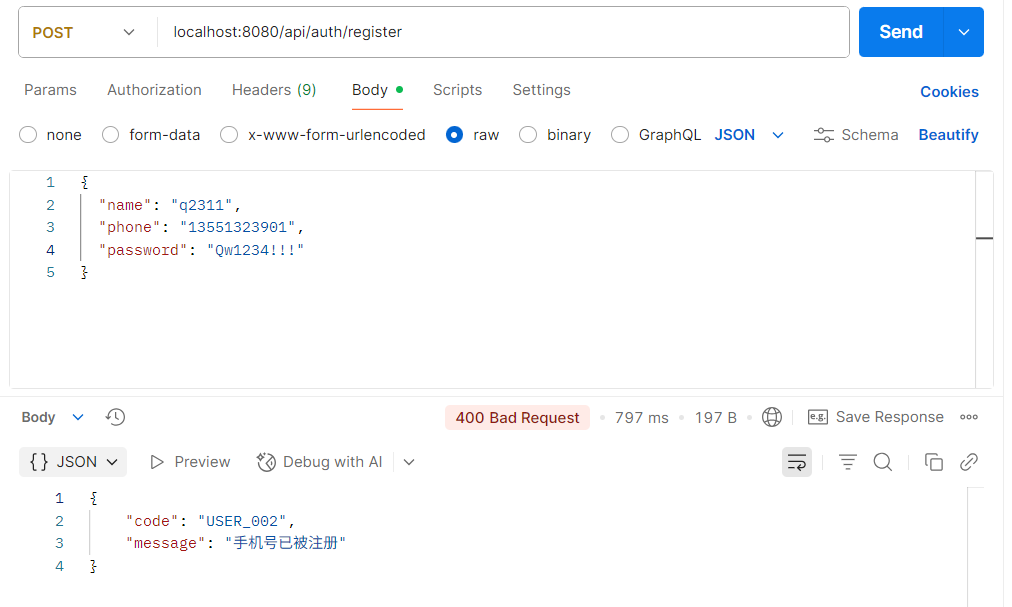
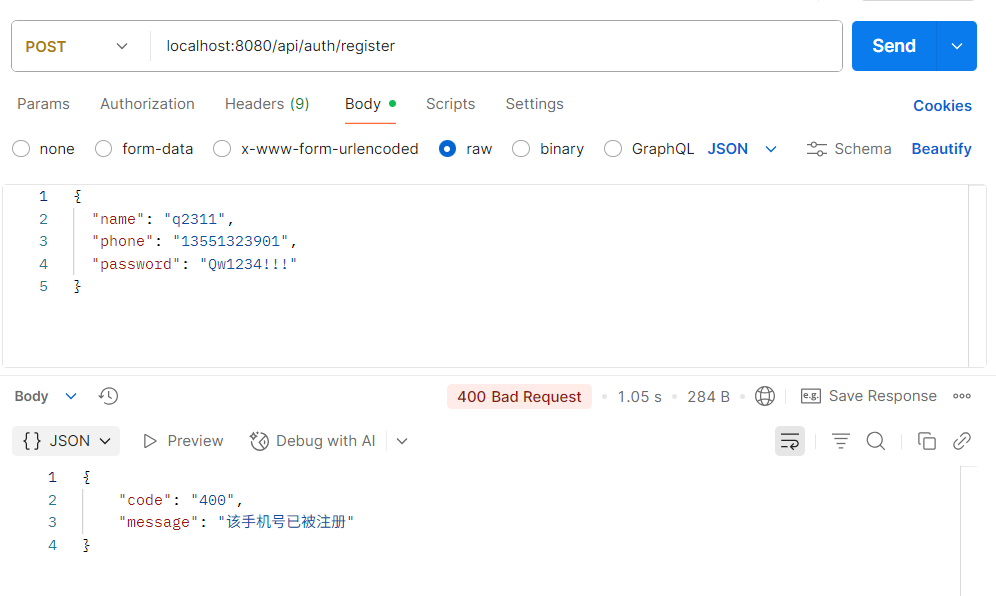
搜索功能

diff --git a/project/backend/personal-loan/src/main/resources/JS/login.js b/project/backend/personal-loan/src/main/resources/JS/login.js
@@ -183,6 +183,7 @@ async function handlePasswordLogin(e) {
         showLoading('password', true) // 显示加载状态
         // 调用登录接口，传递验证后的formData
         const result = await API_CLIENT.login(formData.phone, formData.password)
+        console.log("------------表单提交事件触发了！");
         handleLoginSuccess(result, formData.phone)
     } catch (error) {
         console.error('密码登录失败:', error)

diff --git a/project/backend/personal-loan/src/main/java/com/example/personal_loan/service/impl/UserServiceImpl.java b/project/backend/personal-loan/src/main/java/com/example/personal_loan/service/impl/UserServiceImpl.java
@@ -14,10 +14,10 @@ import com.example.personal_loan.controller.dto.RegisterRequest;
 import com.example.personal_loan.controller.dto.RegisterResponse;
 import com.example.personal_loan.dao.BlackListMapper;
 import com.example.personal_loan.dao.UserMapper;
+import com.example.personal_loan.dto.UserSearchDto;
 import com.example.personal_loan.entity.BlackUser;
 import com.example.personal_loan.entity.User;
 import com.example.personal_loan.exception.BusinessException;
-import com.example.personal_loan.exception.ErrorCode;
 import com.example.personal_loan.exception.InvalidCredentialsException;
 import com.example.personal_loan.service.UserService;
 import com.example.personal_loan.utils.JwtUtil;
@@ -72,11 +72,11 @@ public class UserServiceImpl implements UserService {
     public User addUser(User user){
         
         if (userMapper.findByPhone(user.getPhone()) != null) {
-            throw new BusinessException(ErrorCode.PHONE_EXISTS);
+            throw new BusinessException("400","该手机号已被注册");
         }
        
         if (userMapper.findByIdCard(user.getIdCard()) != null) {
-            throw new BusinessException(ErrorCode.ID_CARD_EXISTS);
+            throw new BusinessException("400","身份证号已被注册");
         }
         
         userMapper.insert(user);
@@ -111,7 +111,7 @@ public class UserServiceImpl implements UserService {
         // 如果手机号被修改，校验唯一性
         if (user.getPhone() != null && !user.getPhone().equals(old.getPhone())) {
             if (userMapper.findByPhone(user.getPhone()) != null) {
-                throw new BusinessException(ErrorCode.PHONE_EXISTS);
+                throw new BusinessException("400","手机号已存在");
             }else{
                 old.setPhone(user.getPhone());   // 更新手机号
             }
@@ -119,7 +119,7 @@ public class UserServiceImpl implements UserService {
         // 校验身份证号唯一性
         if (user.getIdCard() != null && !user.getIdCard().equals(old.getIdCard())) {
             if (userMapper.findByIdCardExcludeId(user.getIdCard(), user.getId()) != 0) {
-                throw new BusinessException(ErrorCode.ID_CARD_EXISTS);
+                throw new BusinessException("400","身份证号已存在");
             }else{
                 old.setIdCard(user.getIdCard());  // 更新身份证号
             }
@@ -143,7 +143,7 @@ public class UserServiceImpl implements UserService {
     public User getUserById(Long id){
         User user = userMapper.findById(id);
         if(user==null){
-            throw new BusinessException(ErrorCode.USER_NOT_FOUND);
+            throw new BusinessException("404","该用户不存在");
         }
         return user;
     }
@@ -154,15 +154,25 @@ public class UserServiceImpl implements UserService {
     }
 
     @Override
+    public List<UserSearchDto> searchUsersByCreditScore(String expr){
+        CreditExpr parsed = parseCreditExpression(expr.trim());
+        if (parsed == null) {
+            throw new BusinessException("400","无效的搜索");
+        }
+
+        return userMapper.selectUsersByCreditScore(parsed.operator, parsed.value);
+    }
+
+    @Override
     public void addToBlackList(Long userId, int blackLevel){
         User user = userMapper.findById(userId);
         if (user == null) {
-            throw new BusinessException("用户不存在");
+            throw new BusinessException("404","用户不存在");
         }
         
         // 检查是否已在黑名单
         if (blacklistMapper.selectByUserId(userId) != null) {
-            throw new BusinessException("用户已在黑名单中");
+            throw new BusinessException("400","用户已在黑名单中");
         }
 
         // 检查level范围 ？
@@ -171,5 +181,39 @@ public class UserServiceImpl implements UserService {
         blackUser.setUserId(userId);
         blackUser.setBlackLevel(blackLevel);
         blacklistMapper.insert(blackUser);
+    }
+
+
+    // 内部类
+    private static class CreditExpr {
+        private final String operator; // ">", ">=", "=", "<", "<="
+        private final Integer value;
+
+        public CreditExpr(String operator, Integer value) {
+            this.operator = operator;
+            this.value = value;
+        }
+    }
+
+    private CreditExpr parseCreditExpression(String expr) {
+
+        if (expr == null || expr.isEmpty()) {
+            return null;
+        }
+
+        String[] ops = {">=", "<=", ">", "<", "="};
+        for (String op : ops) {
+            if (expr.startsWith(op)) {
+                String numPart = expr.substring(op.length()).trim();
+                try {
+                    Integer val = Integer.valueOf(numPart);
+                    // 可选：校验范围（根据实际业务）
+                    return new CreditExpr(op, val);
+                } catch (NumberFormatException e) {
+                    return null;
+                }
+            }
+        }
+        return null;
     }
 }

diff --git a/project/backend/personal-loan/src/main/java/com/example/personal_loan/controller/UserController.java b/project/backend/personal-loan/src/main/java/com/example/personal_loan/controller/UserController.java
@@ -12,8 +12,10 @@ import org.springframework.web.bind.annotation.PathVariable;
 import org.springframework.web.bind.annotation.PostMapping;
 import org.springframework.web.bind.annotation.RequestBody;
 import org.springframework.web.bind.annotation.RequestMapping;
+import org.springframework.web.bind.annotation.RequestParam;
 import org.springframework.web.bind.annotation.RestController;
 
+import com.example.personal_loan.dto.UserSearchDto;
 import com.example.personal_loan.entity.User;
 import com.example.personal_loan.service.UserService;
 
@@ -41,6 +43,11 @@ public class UserController {
     //                           @RequestParam(required = false) String name) {
     //     return userService.searchUsers(id, name);
     // }
+
+    @GetMapping("/search-by-credit")
+    public ResponseEntity<List<UserSearchDto>> searchByCreditScore(@RequestParam String expr) {
+        return ResponseEntity.ok(userService.searchUsersByCreditScore(expr));
+    }
 
     @PostMapping
     public ResponseEntity<User> addUser(@RequestBody @Valid User user) {

diff --git a/project/backend/personal-loan/src/main/java/com/example/personal_loan/service/UserService.java b/project/backend/personal-loan/src/main/java/com/example/personal_loan/service/UserService.java
@@ -6,6 +6,7 @@ import com.example.personal_loan.controller.dto.LoginRequest;
 import com.example.personal_loan.controller.dto.LoginResponse;
 import com.example.personal_loan.controller.dto.RegisterRequest;
 import com.example.personal_loan.controller.dto.RegisterResponse;
+import com.example.personal_loan.dto.UserSearchDto;
 import com.example.personal_loan.entity.User;
 
 public interface UserService {
@@ -38,6 +39,9 @@ public interface UserService {
 
         // // 根据id，name搜索用户
         // List<User> searchUsers(Long id, String name);
+
+        // 根据信誉分表达式搜索用户
+        List<UserSearchDto> searchUsersByCreditScore(String expr);
 
         // 添加黑名单
         void addToBlackList(Long userId, int blackLevel);

diff --git a/project/backend/personal-loan/src/main/java/com/example/personal_loan/config/CorsConfig.java b/project/backend/personal-loan/src/main/java/com/example/personal_loan/config/CorsConfig.java
@@ -1,0 +1,19 @@
+package com.example.personal_loan.config;
+
+import org.springframework.context.annotation.Configuration;
+import org.springframework.web.servlet.config.annotation.CorsRegistry;
+import org.springframework.web.servlet.config.annotation.WebMvcConfigurer;
+
+@Configuration
+public class CorsConfig implements WebMvcConfigurer {
+
+    @Override
+    public void addCorsMappings(CorsRegistry registry) {
+        registry.addMapping("/**")
+                .allowedOrigins("http://127.0.0.1:5500")
+                .allowedMethods("GET", "POST", "PUT", "DELETE", "OPTIONS","PATCH")
+                .allowedHeaders("Authorization", "Content-Type", "X-Requested-With")
+                .allowCredentials(true)
+                .maxAge(3600);
+    }
+}

diff --git a/project/backend/personal-loan/src/main/java/com/example/personal_loan/dao/UserMapper.java b/project/backend/personal-loan/src/main/java/com/example/personal_loan/dao/UserMapper.java
@@ -10,6 +10,7 @@ import org.apache.ibatis.annotations.Param;
 import org.apache.ibatis.annotations.Select;
 import org.apache.ibatis.annotations.Update;
 
+import com.example.personal_loan.dto.UserSearchDto;
 import com.example.personal_loan.entity.User;
 
 @Mapper
@@ -24,6 +25,8 @@ public interface UserMapper {
 
     @Update("UPDATE users SET user_name = #{name}, phone = #{phone}, id_card = #{idCard} ,password=#{password} WHERE id = #{id}")
     int update(User user);
+
+    List<UserSearchDto> selectUsersByCreditScore(@Param("operator") String operator, @Param("value") Integer value);
 
     // 根据ID查询用户
     @Select("SELECT * FROM users WHERE id = #{id}")

diff --git a/project/backend/personal-loan/src/main/java/com/example/personal_loan/handler/JwtInterceptor.java b/project/backend/personal-loan/src/main/java/com/example/personal_loan/handler/JwtInterceptor.java
@@ -17,6 +17,8 @@ public class JwtInterceptor implements HandlerInterceptor {
 
     @Override
     public boolean preHandle(HttpServletRequest request, HttpServletResponse response, Object handler) throws Exception {
+        String uri = request.getRequestURI();
+        System.out.println("【JwtInterceptor】正在拦截请求: " + uri);
         String authorizationHeader = request.getHeader("Authorization");
         if (authorizationHeader == null || !authorizationHeader.startsWith("Bearer ")) {
             sendUnauthorizedJson(response, 401, "Missing or invalid Authorization header");

diff --git a/project/backend/personal-loan/src/main/java/com/example/personal_loan/dto/UserSearchDto.java b/project/backend/personal-loan/src/main/java/com/example/personal_loan/dto/UserSearchDto.java
@@ -1,0 +1,18 @@
+package com.example.personal_loan.dto;
+
+import java.time.LocalDateTime;
+
+import lombok.AllArgsConstructor;
+import lombok.Data;
+import lombok.NoArgsConstructor;
+
+@Data
+@NoArgsConstructor
+@AllArgsConstructor
+public class UserSearchDto {
+    private Long id;
+    private String name;
+    private String phone;
+    private Integer creditScore; // 信誉分
+    private LocalDateTime createTime;
+}

diff --git a/project/backend/personal-loan/src/main/java/com/example/personal_loan/exception/GlobalExceptionHandler.java b/project/backend/personal-loan/src/main/java/com/example/personal_loan/exception/GlobalExceptionHandler.java
@@ -27,6 +27,9 @@ public class GlobalExceptionHandler {
         response.put("code", e.getCode());
         response.put("message", e.getMessage());
         
+        if(e.getCode().equals("404")){
+            return ResponseEntity.status(HttpStatus.NOT_FOUND).body(response);
+        }
         return ResponseEntity.status(HttpStatus.BAD_REQUEST).body(response);
     }
 

diff --git a/project/backend/document/User.md b/project/backend/document/User.md
@@ -7,3 +7,50 @@
 ## 修改用户信息
 
 ## 查询用户
+
+## 根据信誉分从高到低查询用户
+
+**网址：**/api/users/search-by-credit
+
+**请求方式：** GET
+
+**请求参数：**
+
+|字段名|类型|是否必填|说明|示例值|
+|---|---|---|---|---|
+| expr |  String  |  是  | 信仰分筛选表达式，支持>,<,>=,<=,=  |  <100  |
+
+**请求实例（网址）：** /api/users/search-by-credit?expr=<100
+
+**返回数据：**
+
+``` json
+[
+  {
+    "id": 5,
+    "name": "李华",
+    "phone": "13912345678",
+    "creditScore": 70,
+    "createTime": "2025-11-11T16:08:50"
+  },
+  {
+    "id": 4,
+    "name": "Alice_Wang",
+    "phone": "15912345678",
+    "creditScore": 65,
+    "createTime": "2025-11-11T16:02:20"
+  },
+  {
+    "id": 3,
+    "name": "张三",
+    "phone": "13800138000",
+    "creditScore": 60,
+    "createTime": "2025-11-11T15:59:10"
+  }
+]
+```
+
+**postman测试：**
+
+![](UserImgs/search.png "搜索成功")
+![](UserImgs/searchFail.png "搜索失败")
